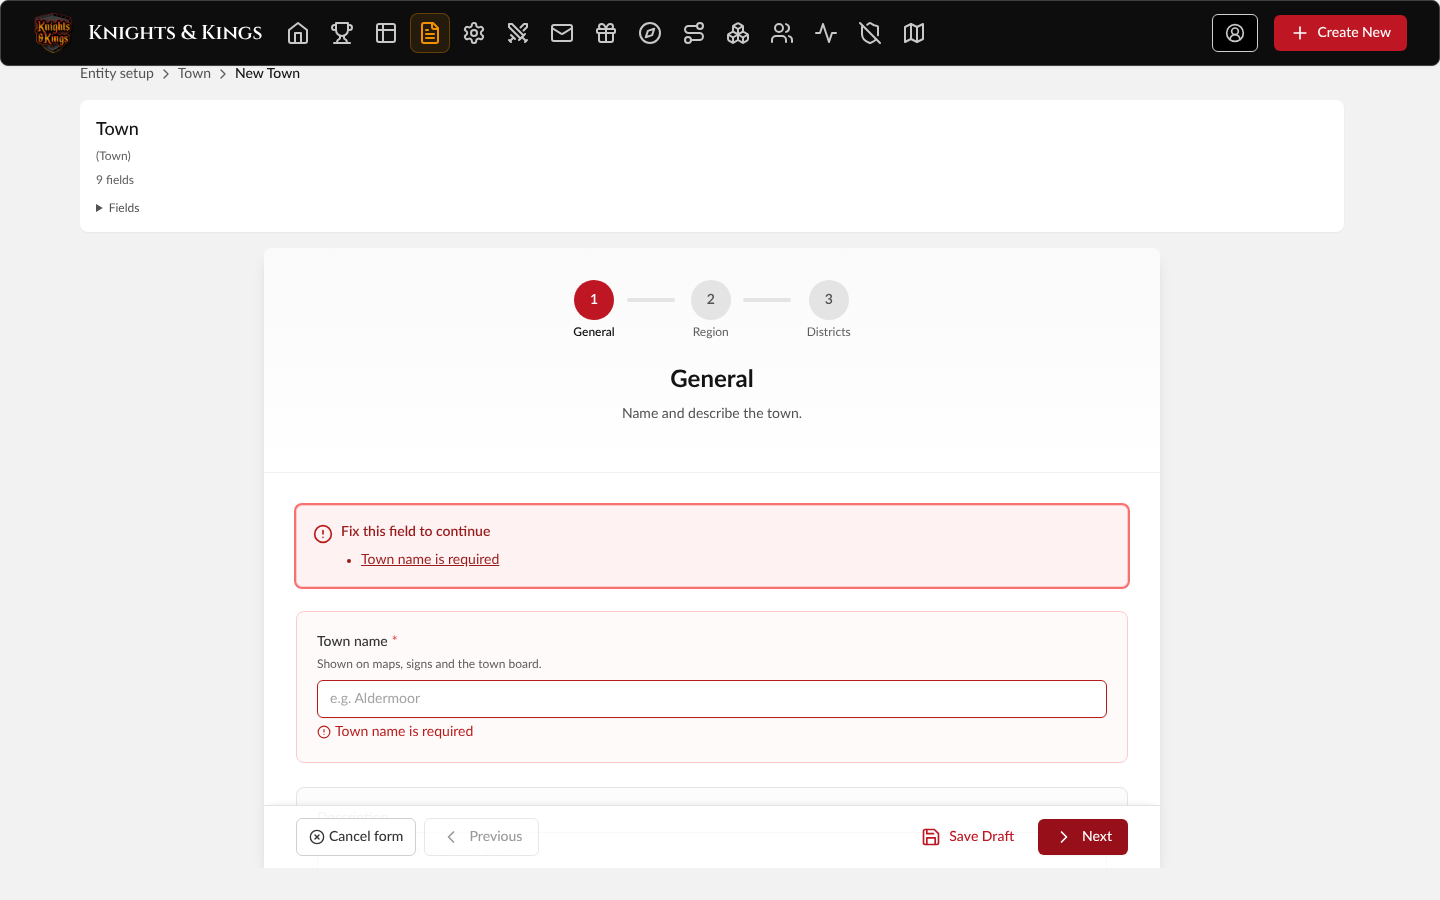
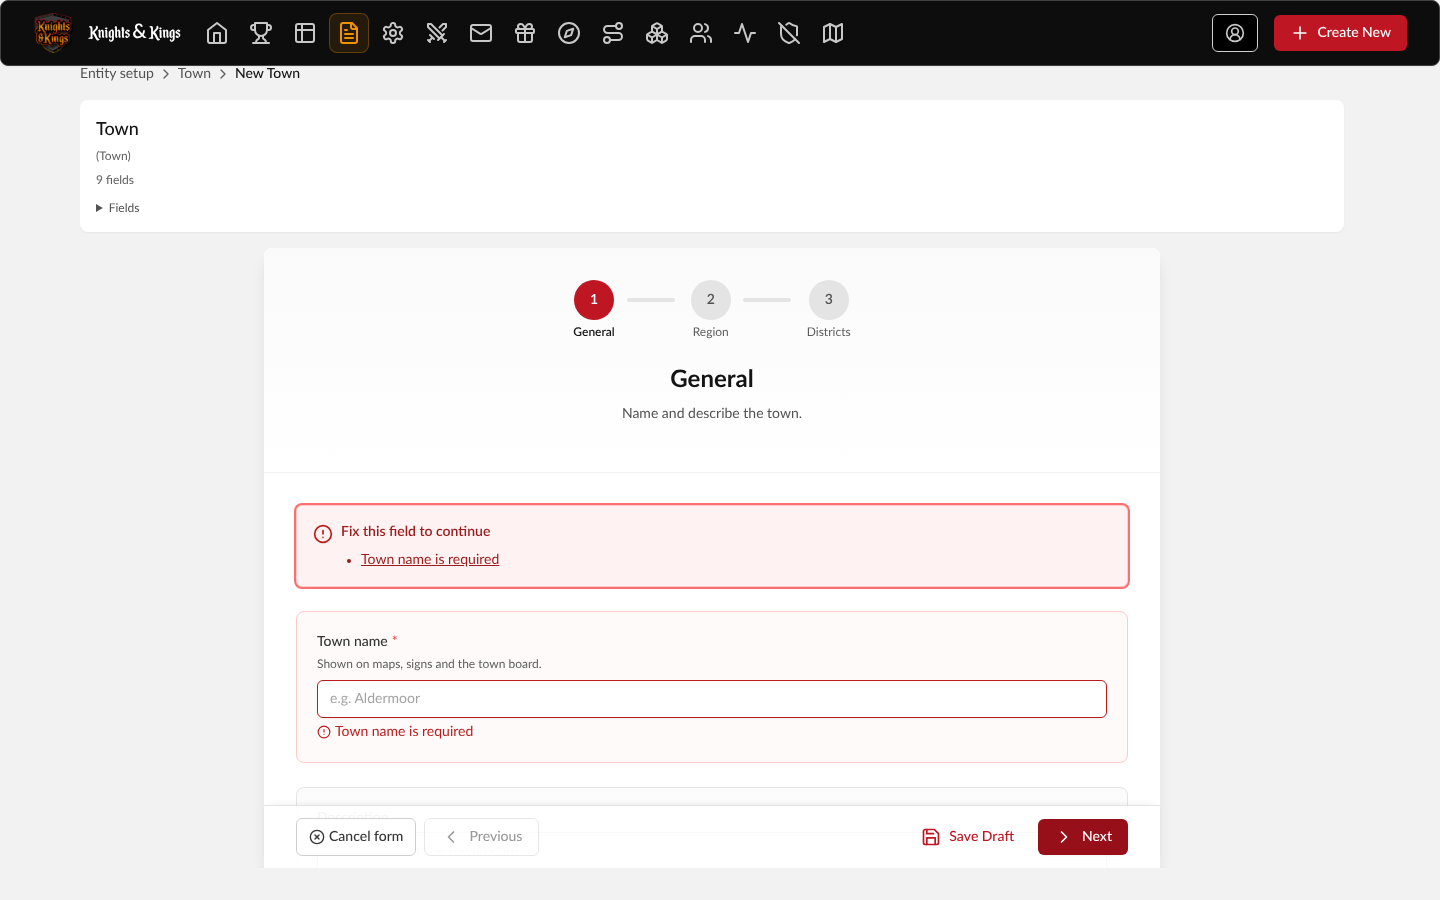
Design themes: Enchanted Land demo in the brand theme, screenshots retaken (#95, #92 Q6)
Claude-Session: https://claude.ai/code/session_01R1w2UvqJGJj4ioe49HCZGy

Changed region(s): [[0.0625, 0.0, 0.6562, 0.0622]]

diff --git a/docs/architecture/web-app-architecture.md b/docs/architecture/web-app-architecture.md
@@ -51,10 +51,13 @@ _Added 2026-11-02 for PandiO/knk-workspace#95 (rebrand phase 1), knk-web-app bra
     `danger` / `success` / `warning` / `info`, each with `DEFAULT` (text/icon/filled), `strong` (text on the tints),
     `soft` (alert background), `muted` (badge background), `line` (alert border) and `fg` (text on the filled colour;
     not for info). The key `primary` kept its name, so its ~580 uses switch with no component edit.
-  - Fonts: `--font-body` (Tailwind `font-sans`, the body) and `--font-display` (Tailwind `font-display`; `h1`
-    and the nav title). `current` keeps `'Inter', sans-serif` (Inter is never loaded: the Google `@import` in
+  - Fonts: `--font-body` (Tailwind `font-sans`, the body) and `--font-display` (Tailwind `font-display`; `h1`,
+    the dashboard and detail page titles, the nav title; no faux bold). `current` keeps `'Inter', sans-serif` (Inter is never loaded: the Google `@import` in
     `index.css` comes after other rules, so the system sans renders, as before). Lato 2.015 and Cinzel are
-    self-hosted under the OFL in `src/theme/fonts/` and only downloaded when a theme uses them.
+    self-hosted under the OFL in `src/theme/fonts/` and only downloaded when a theme uses them. `brand` uses the
+    Enchanted Land **demo** (personal-use licence, readme kept alongside; a webfont licence is needed once the
+    project earns anything) with a `unicode-range` of the characters the demo draws, so its empty punctuation and
+    accent glyphs fall back to Lato (guide § 2).
 - **Switching:** `src/theme/themes.ts` (`THEMES`, `resolveInitialTheme`, `applyTheme`, `selectTheme`,
   `useActiveTheme`, `themePickerVisible`). `index.tsx` applies the theme before the first render. Order: `?theme=`
   (kept per tab in sessionStorage) → the picker's choice (localStorage `knk.theme`) → `current`; storage access is in

diff --git a/docs/CHANGELOG.md b/docs/CHANGELOG.md
@@ -7,8 +7,8 @@ This is a human-readable record of capabilities merged into the V3 default branc
 - **Design tokens and switchable themes (rebrand phase 1)** — knk-web-app and knk-workspace `claude/design-tokens-95`
   (PandiO/knk-workspace#95, 2026-11-02). Every colour of the web app is now a theme token (CSS variables that
   Tailwind reads), with three themes to compare live: `current` (today's look, the default), `brand` (the 2020
-  styleguide: brand red, orange call to action, black navigation, Lato 2.015, Cinzel headings standing in for
-  Enchanted Land) and `proposal` (charcoal, orange accents, red only for danger, warm neutrals). Staff switch them in
+  styleguide: brand red, orange call to action, black navigation, Lato 2.015, headings in the
+  Enchanted Land demo font) and `proposal` (charcoal, orange accents, red only for danger, warm neutrals, Cinzel headings). Staff switch them in
   the account menu; `?theme=` picks one per tab. A unit test checks WCAG AA contrast of every token pair in every
   theme. Accessibility fixes in all themes: `text-gray-400` → a 4.5:1 secondary text colour, a focus ring on every
   text field, 3:1 field borders, a visible red border and an icon on field errors, darker primary-button hover.
